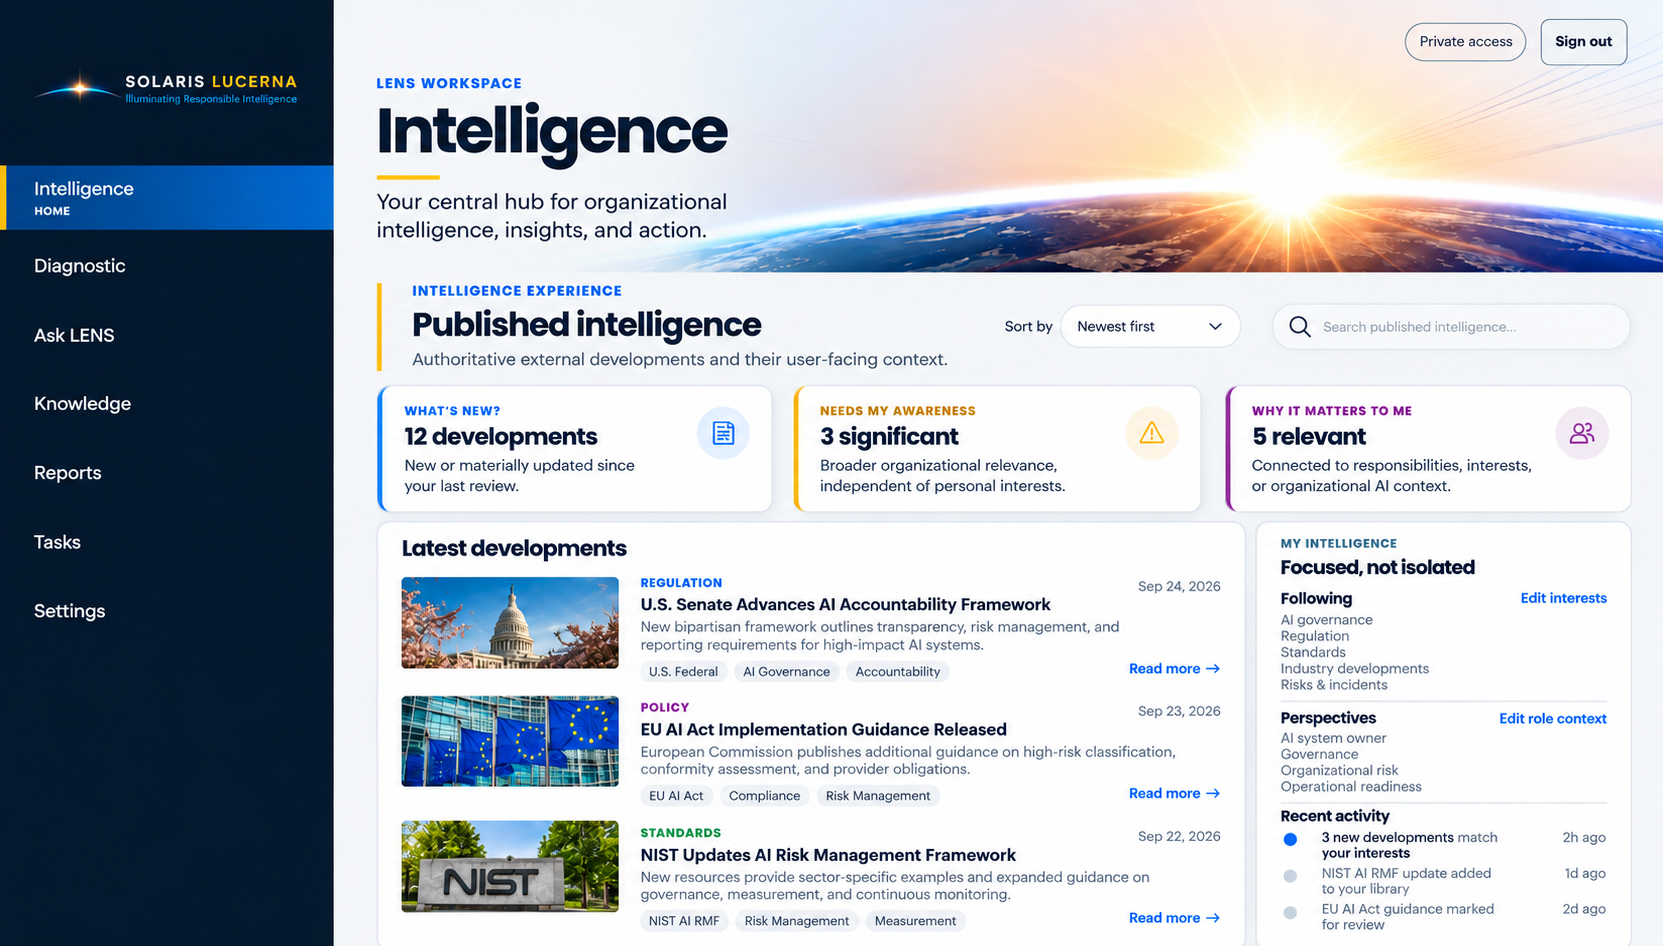
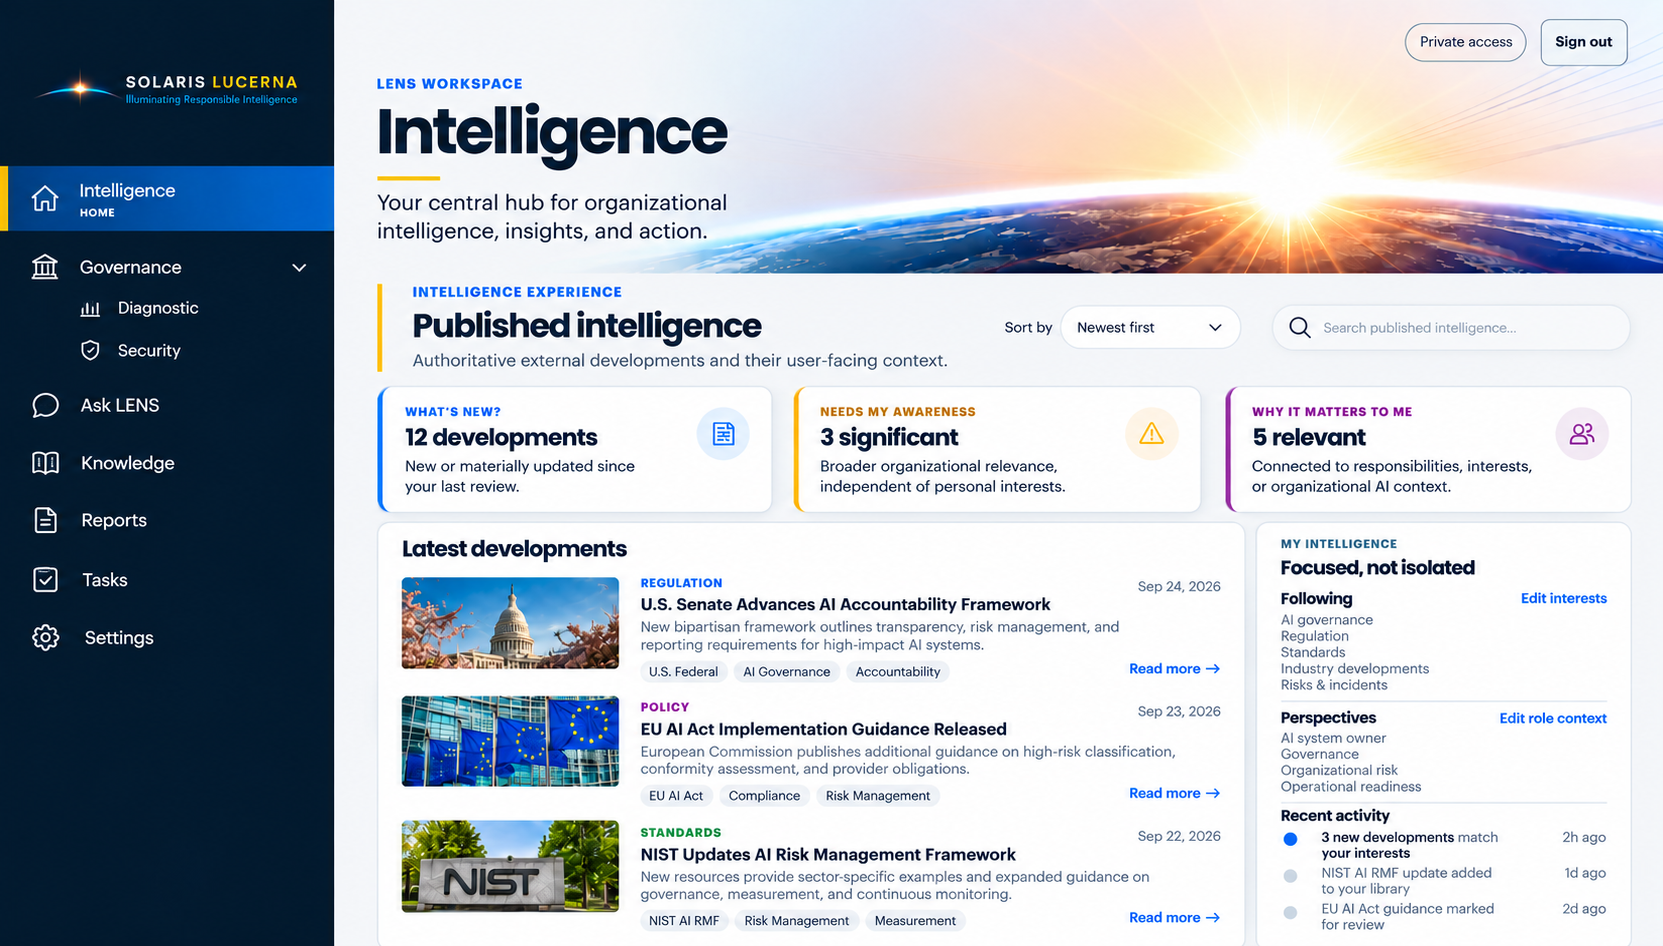
feat(website): update LENS revised-navigation mockup

diff --git a/app/index.html b/app/index.html
@@ -131,7 +131,7 @@
             <p>An early look at LENS Intelligence, currently in development as part of the Lucerna Executive Navigation System.</p>
             <figure>
               <button class="lens-prototype-trigger" id="lens-prototype-trigger" type="button" aria-haspopup="dialog" aria-controls="lens-prototype-dialog" aria-label="Open a larger view of the LENS Intelligence prototype">
-                <img src="assets/lens-intelligence-prototype-accessible-light.png" width="1663" height="946" alt="Illustrative LENS Intelligence interface with regulatory, standards, and governance updates.">
+                <img src="assets/lens-intelligence-prototype-accessible-light.png" width="1663" height="946" alt="Illustrative LENS Intelligence interface with revised Governance navigation and example updates.">
                 <span aria-hidden="true">View larger</span>
               </button>
               <figcaption>Prototype shown for illustrative purposes. Interface, content, and capabilities may evolve during development.</figcaption>
@@ -139,7 +139,7 @@
             <dialog class="lens-prototype-dialog" id="lens-prototype-dialog" aria-label="Expanded LENS Intelligence prototype">
               <div class="lens-prototype-dialog-content">
                 <button class="lens-prototype-close" id="lens-prototype-close" type="button">Close</button>
-                <img src="assets/lens-intelligence-prototype-accessible-light.png" width="1663" height="946" alt="Expanded illustrative LENS Intelligence interface with regulatory, standards, and governance updates.">
+                <img src="assets/lens-intelligence-prototype-accessible-light.png" width="1663" height="946" alt="Expanded illustrative LENS Intelligence interface with revised Governance navigation and example updates.">
               </div>
             </dialog>
           </div>

diff --git a/tests/smoke_test.rb b/tests/smoke_test.rb
@@ -1,6 +1,8 @@
 #!/usr/bin/env ruby
 # Static smoke checks for the Solaris Lucerna public-site entry point.
 
+require "digest"
+
 root = File.expand_path("..", __dir__)
 app = File.join(root, "app")
 html = File.read(File.join(app, "index.html"), encoding: "UTF-8")
@@ -37,8 +39,9 @@ prototype_asset = "assets/lens-intelligence-prototype-accessible-light.png"
 prototype_heading = "A Preview of LENS Intelligence"
 prototype_support = "An early look at LENS Intelligence, currently in development as part of the Lucerna Executive Navigation System."
 prototype_disclosure = "Prototype shown for illustrative purposes. Interface, content, and capabilities may evolve during development."
-prototype_alt = "Illustrative LENS Intelligence interface with regulatory, standards, and governance updates."
+prototype_alt = "Illustrative LENS Intelligence interface with revised Governance navigation and example updates."
 failures << "approved LENS Intelligence prototype preview is incomplete" unless File.file?(File.join(app, prototype_asset)) && [prototype_heading, prototype_support, prototype_disclosure, prototype_alt].all? { |copy| html.include?(copy) }
[1 lines of base64/hex data omitted]
 failures << "LENS Intelligence prototype preview is not between Planned Capabilities and Current Status" unless html.index("Planned Capabilities") < html.index(prototype_heading) && html.index(prototype_heading) < html.index("Current Status")
 failures << "LENS Intelligence prototype lightbox is incomplete" unless html.include?('id="lens-prototype-trigger"') && html.include?('aria-haspopup="dialog"') && html.include?('id="lens-prototype-dialog"') && html.include?('id="lens-prototype-close"') && script.include?("prototypeDialog.showModal()") && script.include?('event.target === prototypeDialog') && script.include?('prototypeTrigger.focus({ preventScroll: true })')
 failures << "removed Resources surface remains" if html.match?(/id="resources"|Resources &amp; Publications|resource-(?:grid|card|type)|status-label/i) || config.match?(/label: "Resources"|href: "#resources"/) || css.match?(/\.resources-section|\.resource-(?:grid|card|type)|\.status-label/)

diff --git a/CHANGELOG.md b/CHANGELOG.md
@@ -1,5 +1,10 @@
 # Changelog
 
+## 2026-10-22 — Revised LENS navigation website mockup
+
+- Replaced the illustrative LENS promotional image with the exact owner-approved revised-navigation mockup while preserving the existing page layout, enlarged view, and prototype disclosure.
+- Updated concise alternative text to identify the revised Governance navigation without representing the mockup's example content as live product data.
+
 ## 2026-10-18 — Approved LENS website mockup
 
 - Replaced the existing LENS promotional image with the exact owner-approved illustrative Intelligence mockup while preserving its existing preview and enlarged-view presentation.
